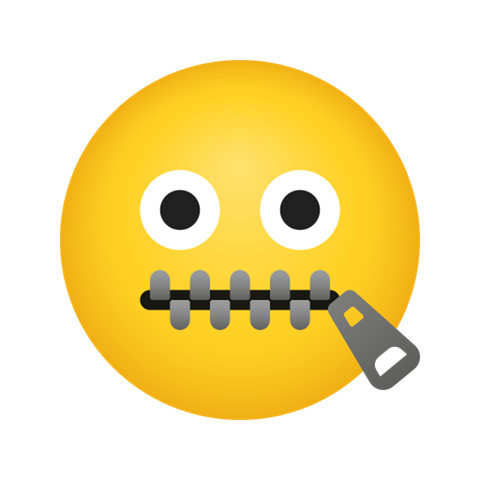
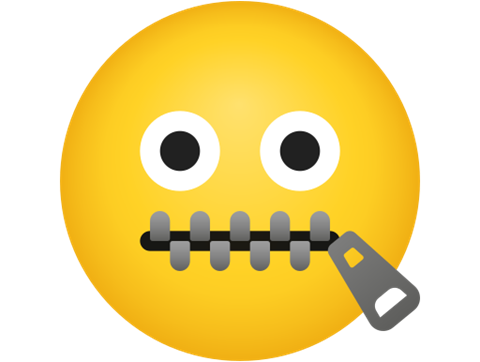
Refactor About component and adjust emoji height/top-margin
Much less lines of code

diff --git a/src/components/Body/About/About.js b/src/components/Body/About/About.js
@@ -13,41 +13,17 @@ function About() {
     }
 
     const emojiImg = <img src="/assets/images/zipper-mouth-emoji.png" className={styles.emoji} name="zipped mouth emoji" alt="zipped mouth emoji"/>;
-    if (verbosity <= 10) {
-        return (
-            <section className={styles.aboutContainer}>
-                <h2 className='page-header'>About</h2>
-                <VerbositySlider handleChange={handleChange} verbosity={verbosity}/>
-                {emojiImg}
-            </section>
-        );
-    } else if (verbosity <= 20) {
-        return (
-            <section className={styles.aboutContainer}>
-                <h2 className='page-header'>About</h2>
-                <VerbositySlider handleChange={handleChange} verbosity={verbosity}/>
-            </section>
-        );
-    } else if (verbosity < 60) {
-        return (
-            <section className={styles.aboutContainer}>
-                <h2 className='page-header'>About</h2>
-                <VerbositySlider handleChange={handleChange} verbosity={verbosity}/>
-                <QuickFacts verbosity={verbosity} />
-            </section>
-        );
-    } else if (verbosity >= 60) {
-        return (
-            <section className={styles.aboutContainer}>
-                <h2 className='page-header'>About</h2>
-                <VerbositySlider handleChange={handleChange} verbosity={verbosity}/>
-                <QuickFacts verbosity={verbosity} />
-                <Bio verbosity={verbosity} />
-            </section>
-        );
-    }
 
-    
+    //render less or more content depending on verbosity
+    return (
+        <section className={styles.aboutContainer}>
+            <h2 className='page-header'>About</h2>
+            <VerbositySlider handleChange={handleChange} verbosity={verbosity}/>
+            {verbosity <= 10 && emojiImg}
+            {verbosity >= 20 && <QuickFacts verbosity={verbosity} />}
+            <Bio verbosity={verbosity} />
+        </section>
+    );
 }
 
 export default About;

diff --git a/src/components/Body/About/About.module.css b/src/components/Body/About/About.module.css
@@ -6,9 +6,9 @@
 
 .emoji {
     text-align: center;
-    margin: 0 auto;
-    height: 30rem;
-    width: 30rem;
+    margin: 4rem auto 0;
+    height: 20.11rem;
+    width: 26.66rem;
 }
 
 
